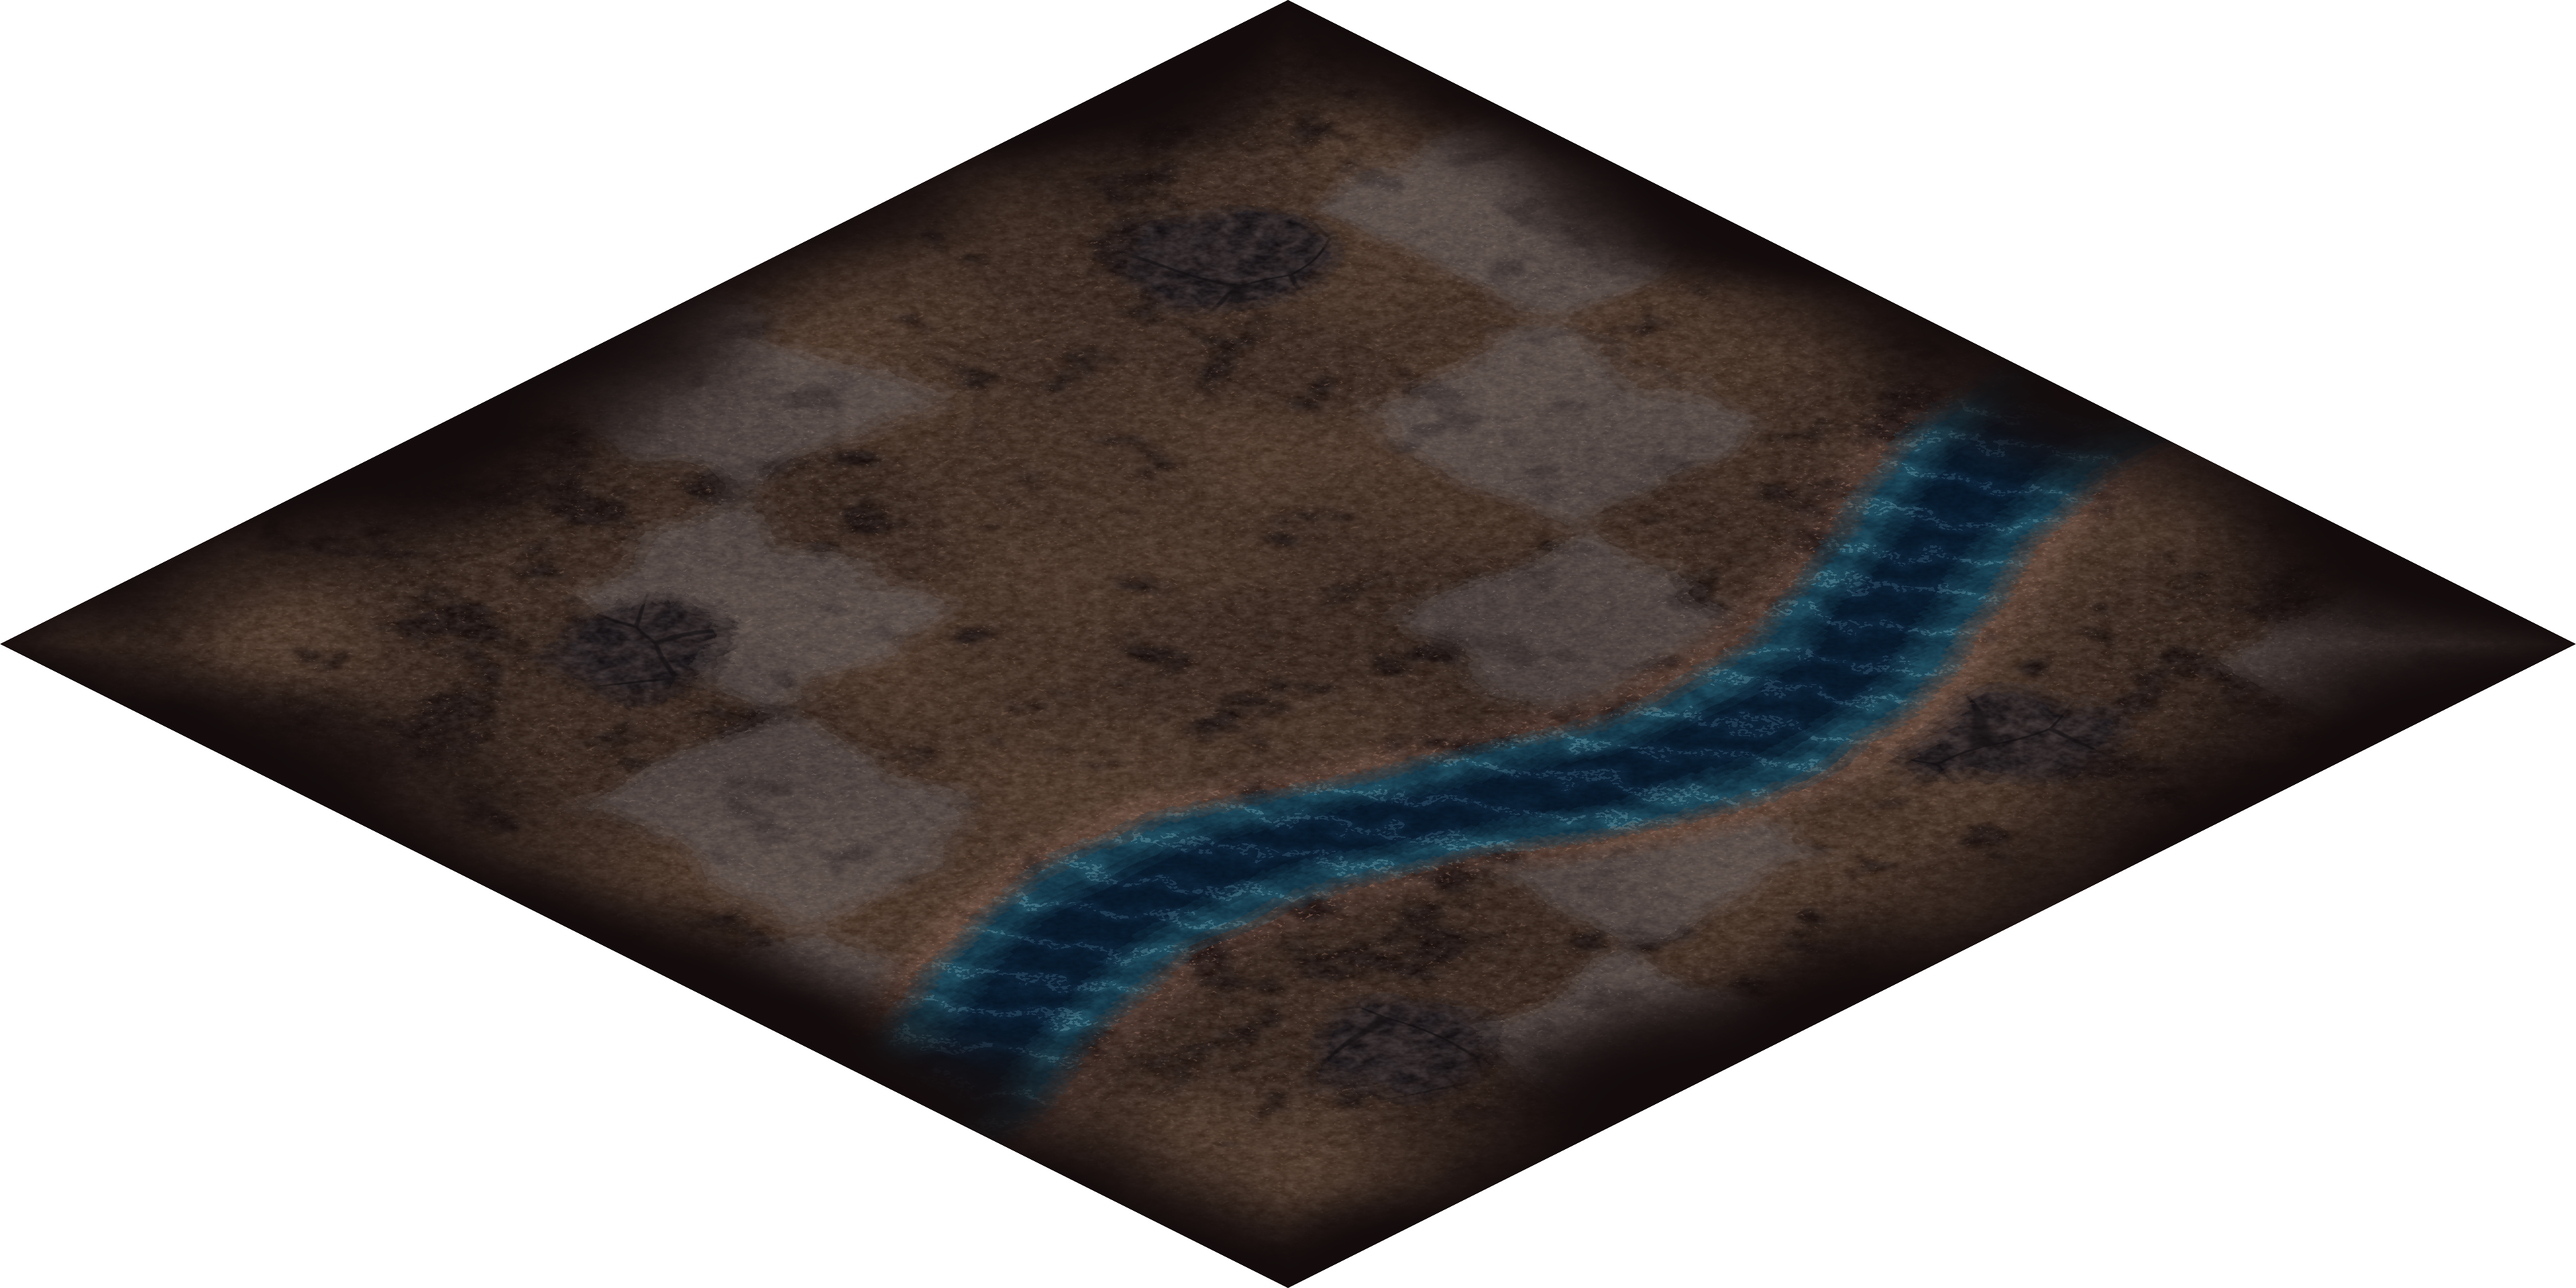
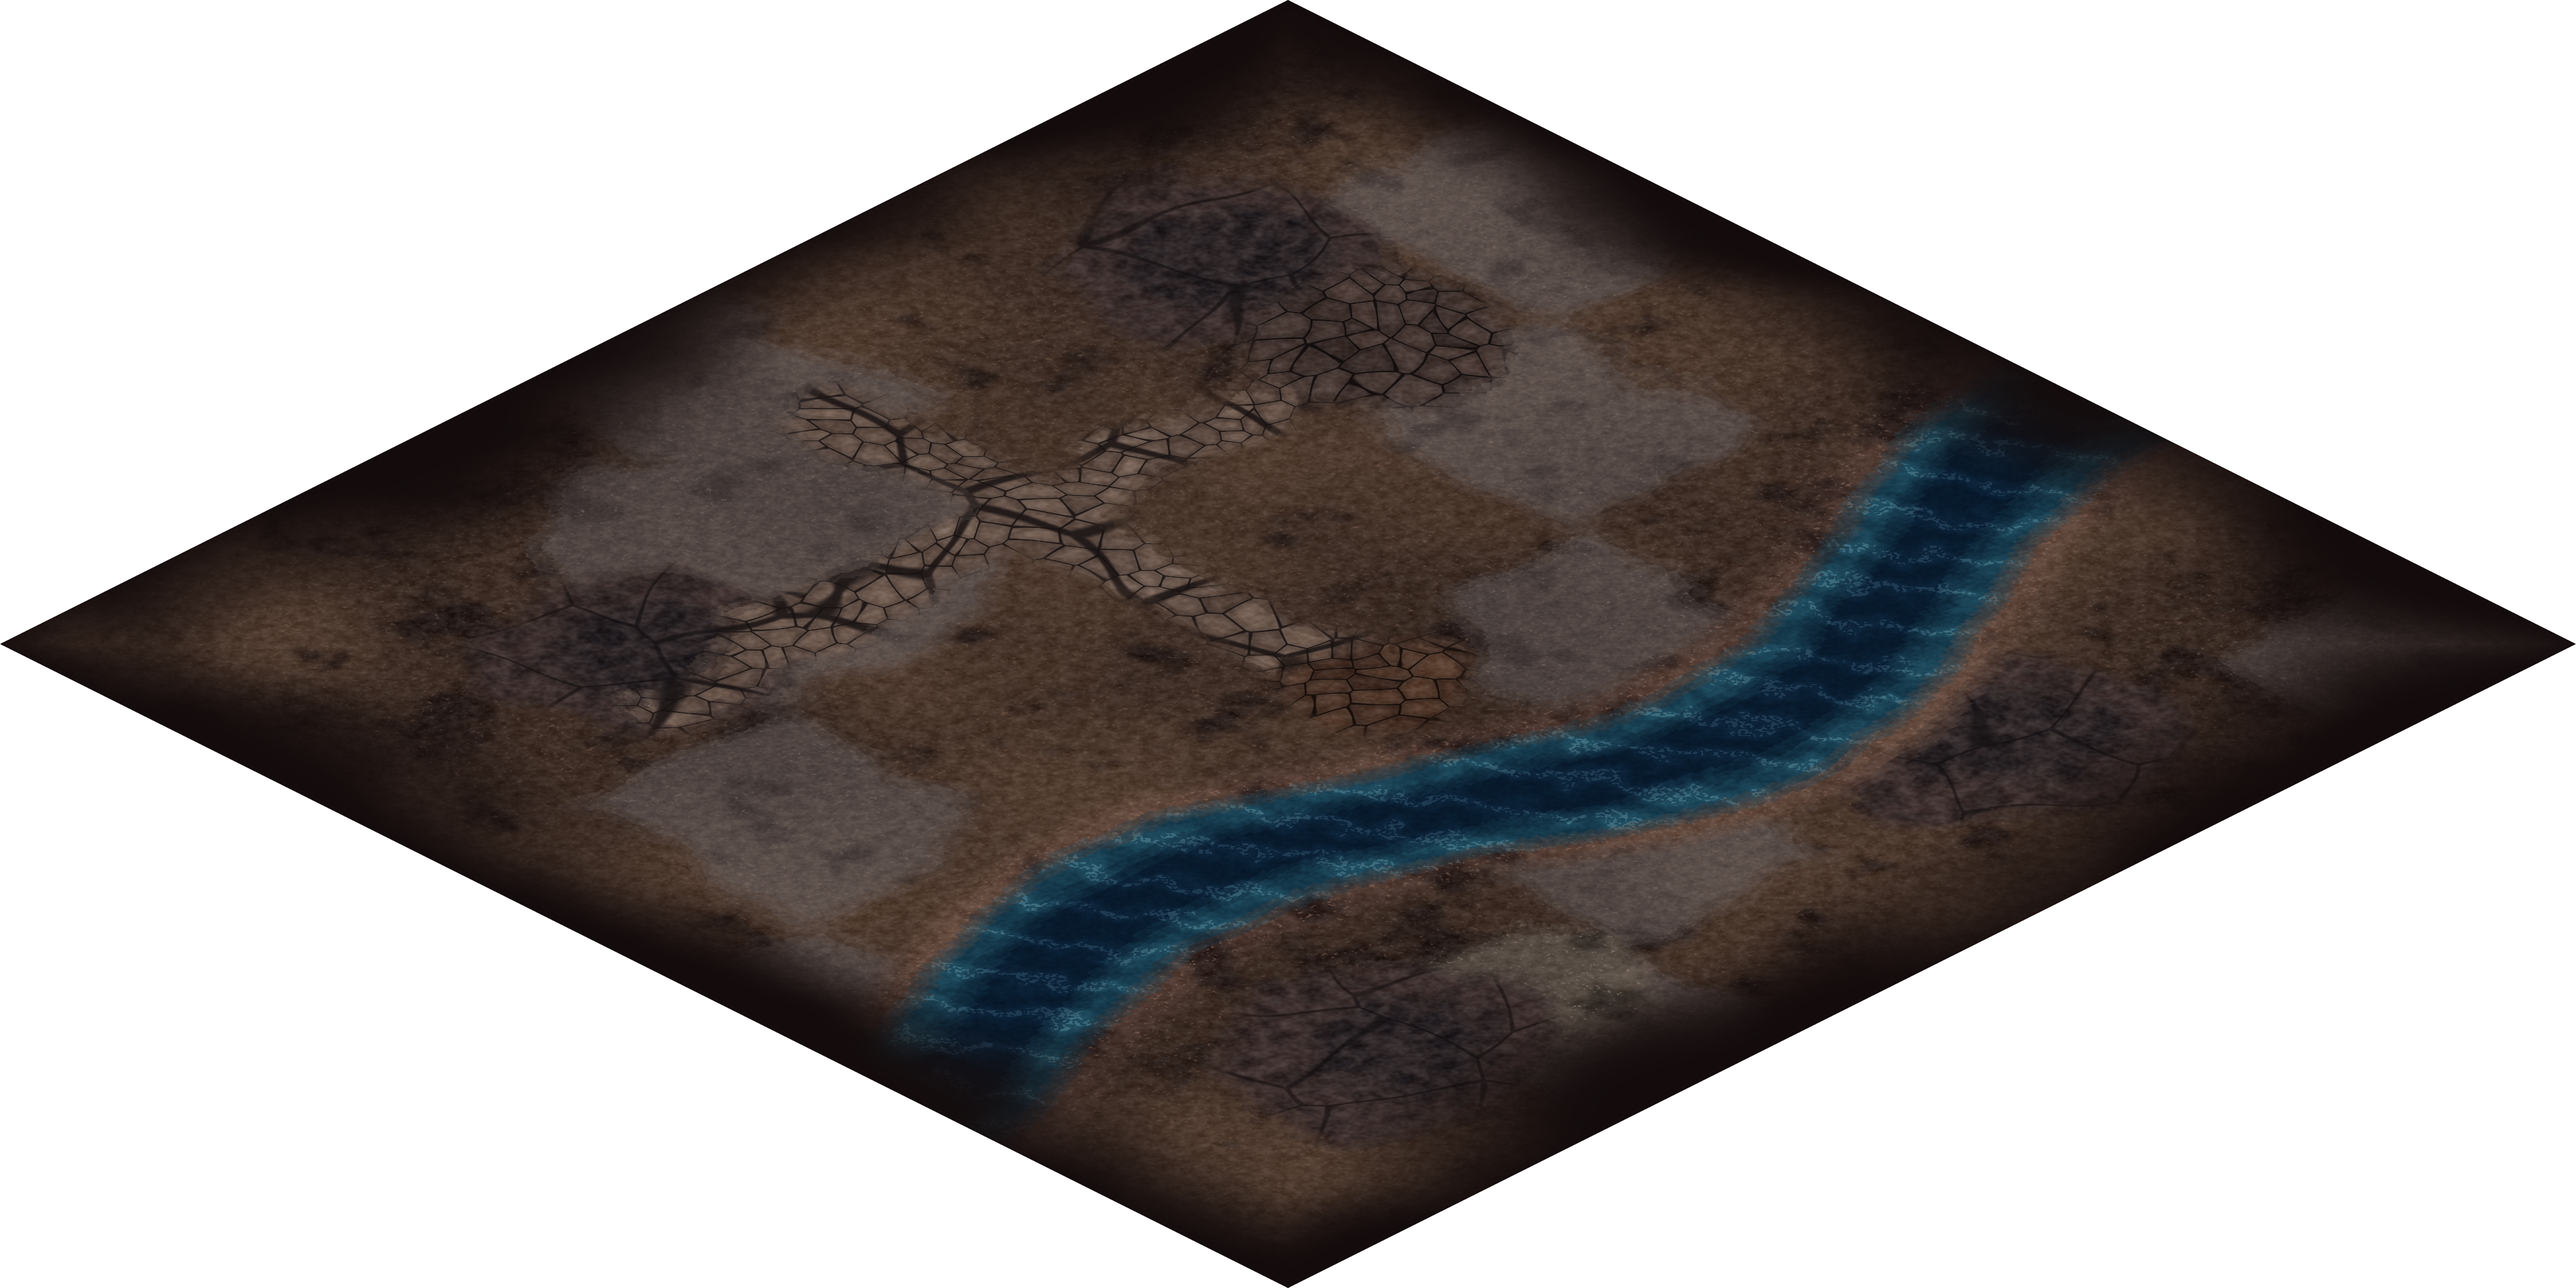
Add level design for Durao: roads, jetty, ash field, ossuary, mountain scree and cage wall (PLAN-054 F1)

diff --git a/.atena/vault/drafts/PLAN-054-direcao-de-chao-e-level-design-coeso-2026-10-02.md b/.atena/vault/drafts/PLAN-054-direcao-de-chao-e-level-design-coeso-2026-10-02.md
@@ -76,3 +76,4 @@ ART (atlas de chão por bioma), MEC-035 (estende o layout por dados), ART-012 (p
 - F1 em Shedaklah (molde): `data/level_design.json` (novo) guarda por bioma o `chao` (clareira de início, dominância fungo a oeste × limo a leste, regiões: bosque, poço de lodo, esporos; trilhas norte-sul e leste-oeste; praça da estrutura) e os `props` por zonas (54 props, mesmo formato de `scenery.json`). `SceneryLayout.stage_spec` usa `scenery.json` e, na falta de props, `level_design.json`. `tools/bake_ground.gd` aplica o `chao` sobre o layout só onde não é água nem margem. Teste: `tests/test_level_design.gd` (props fora de água e margem, determinismo, tipos com dimensões, sem sobreposição). Captura geral: `tools/capture_ground_spots.tscn` gera `<bioma>_<tag>_overview.png`.
 - Próximos biomas pela mesma receita: Molor, Durao, Feng-tu, Shendilavri, Goranthis, Pilares (um por vez, com aprovação).
 - F1 em Molor: calçada de detrito (leste-oeste e norte-sul passando pela estrutura), praça da estrutura, gruta de estalactites ao norte, lixão a sul, ninho de parasitas a leste, bolsões de lodo existentes cercados de bolhas e quatro cantos com bolhas; 111 props em zonas (antes ~130 espalhados). Nenhum prop em parede (a parede de Molor começa em ~55,5 nos lados altos). O ajuste "chão não sobrepõe parede/fundação/encosta" vale para todos os biomas. Falta: Durao, Feng-tu, Shendilavri, Goranthis, Pilares.
+- F1 em Durao: estrada dos carcereiros (leste-oeste) e via da jaula (norte-sul até a estrutura), praça da jaula, embarcadouro junto ao rio, campo de cinzas a oeste, ossuário a leste do rio, entulho em volta das quatro montanhas e uma "muralha" de rochas nas bordas (a ideia de jaula); 95 props em zonas (antes 89). O teste de level design agora também recusa props sobre encostas (`slope`). Faltam: Feng-tu, Shendilavri, Goranthis, Pilares.
